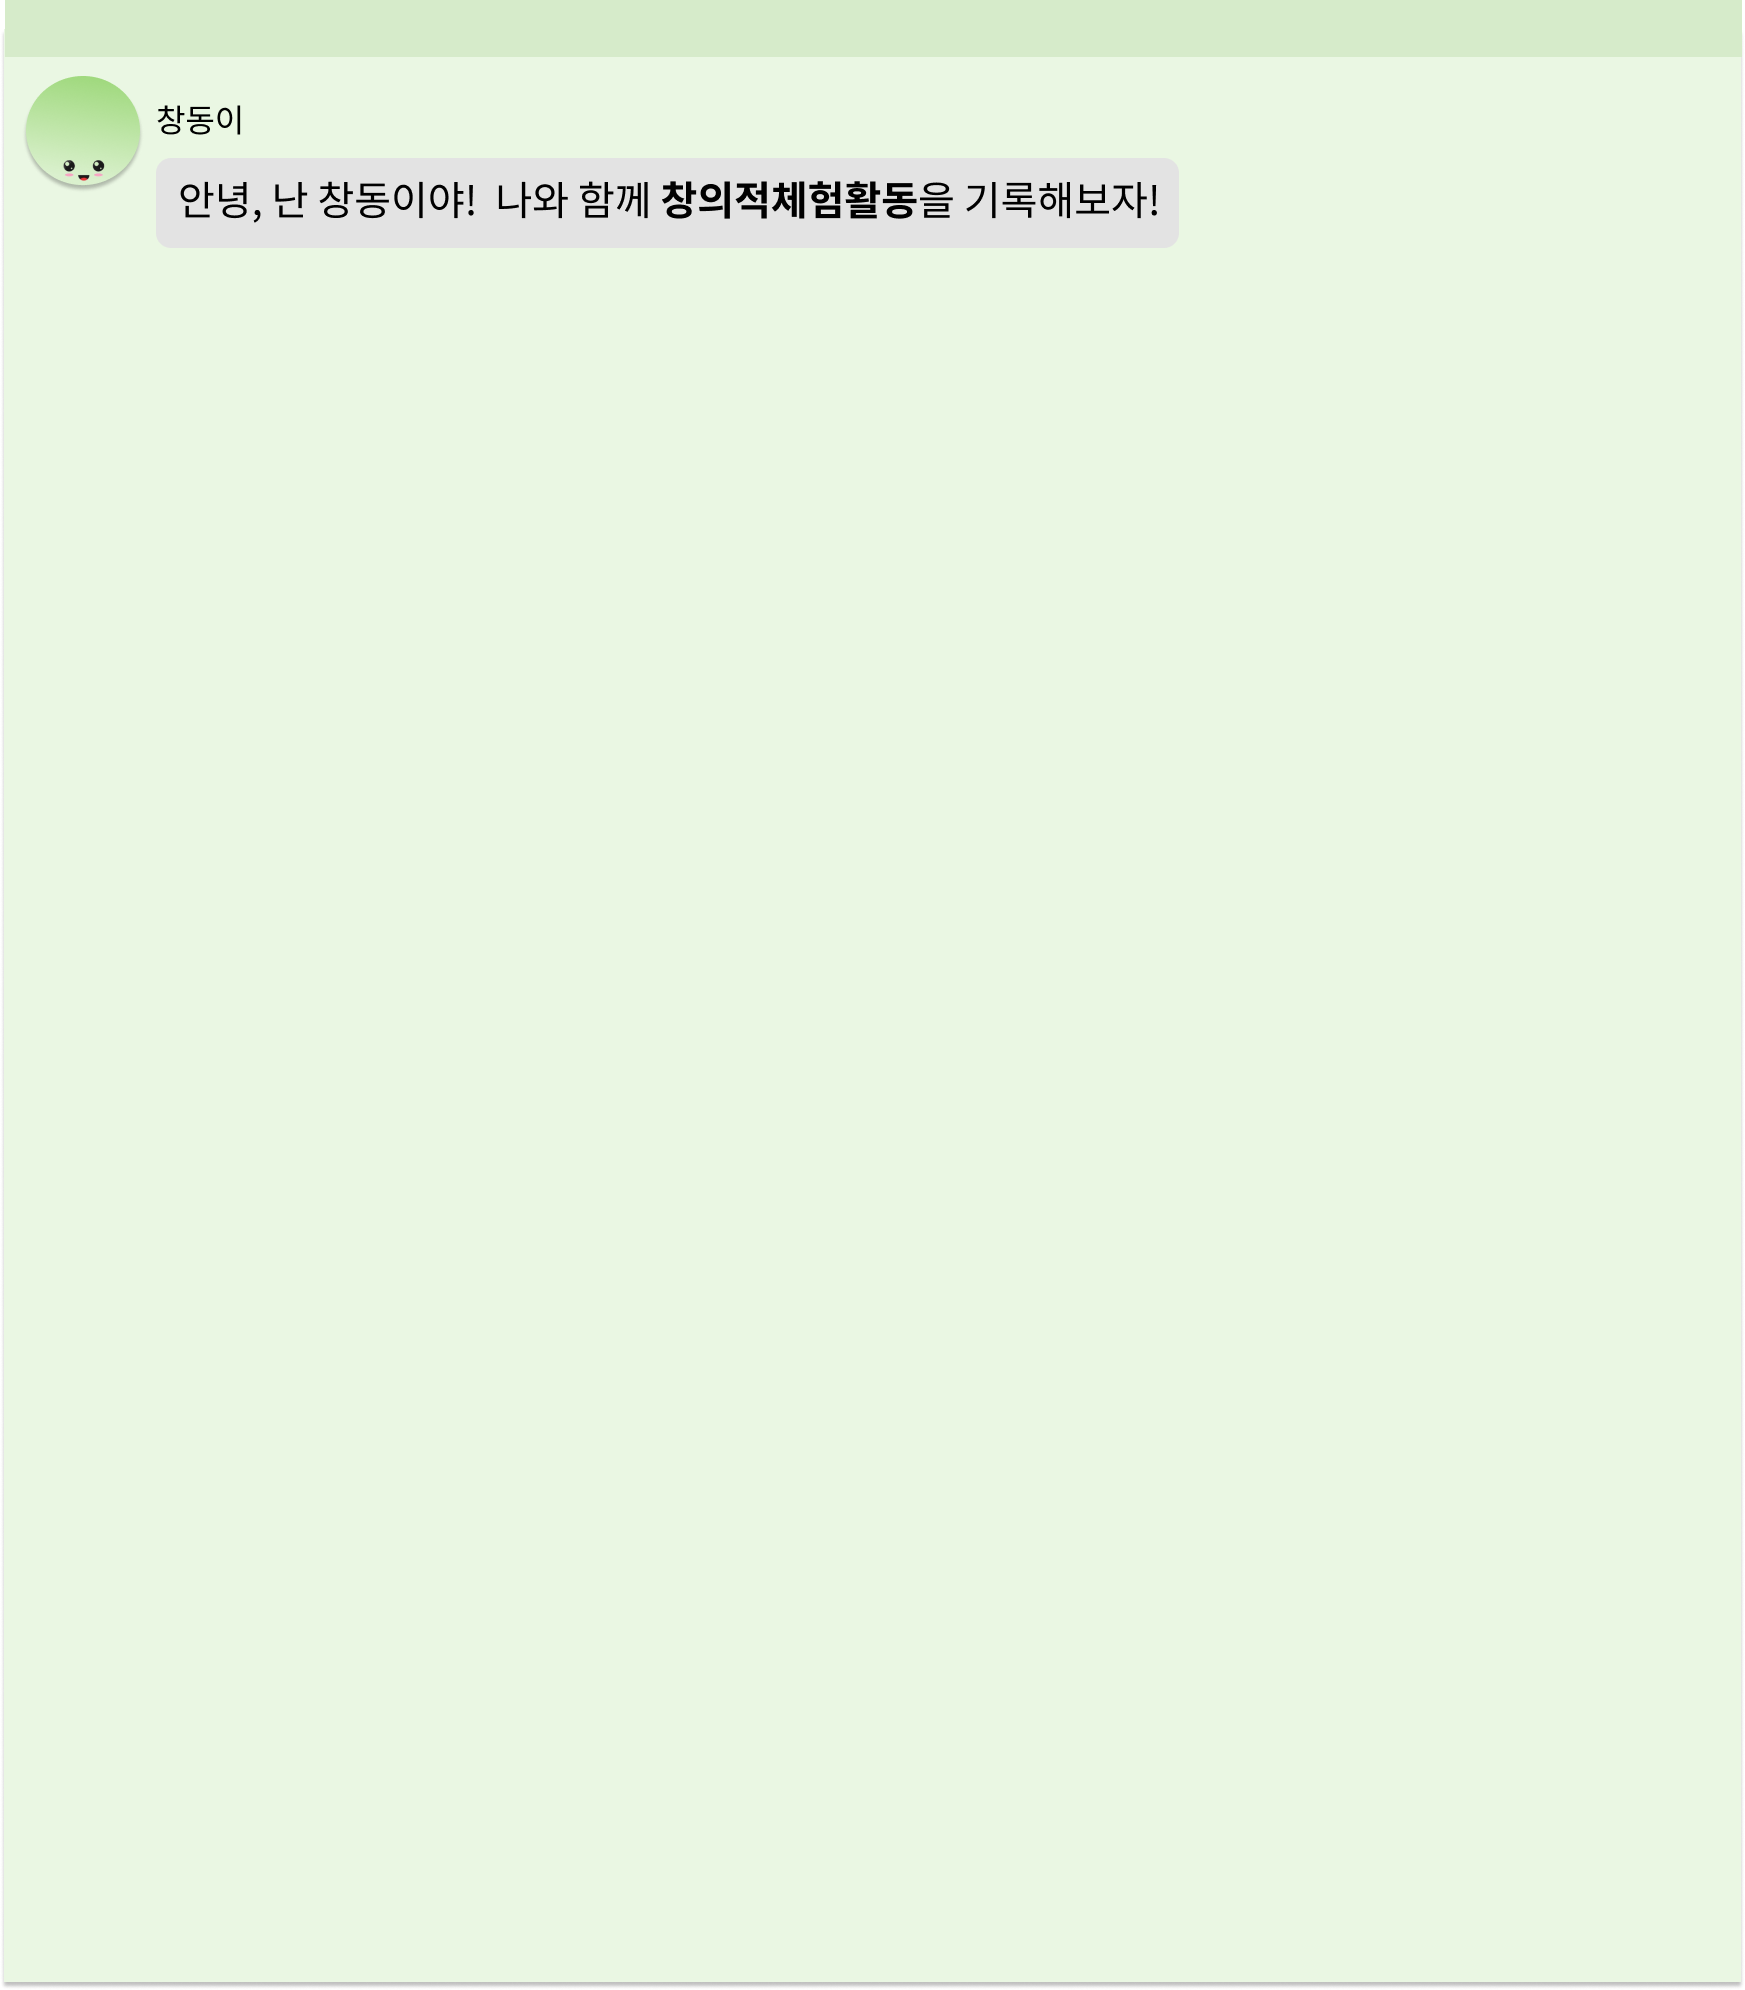
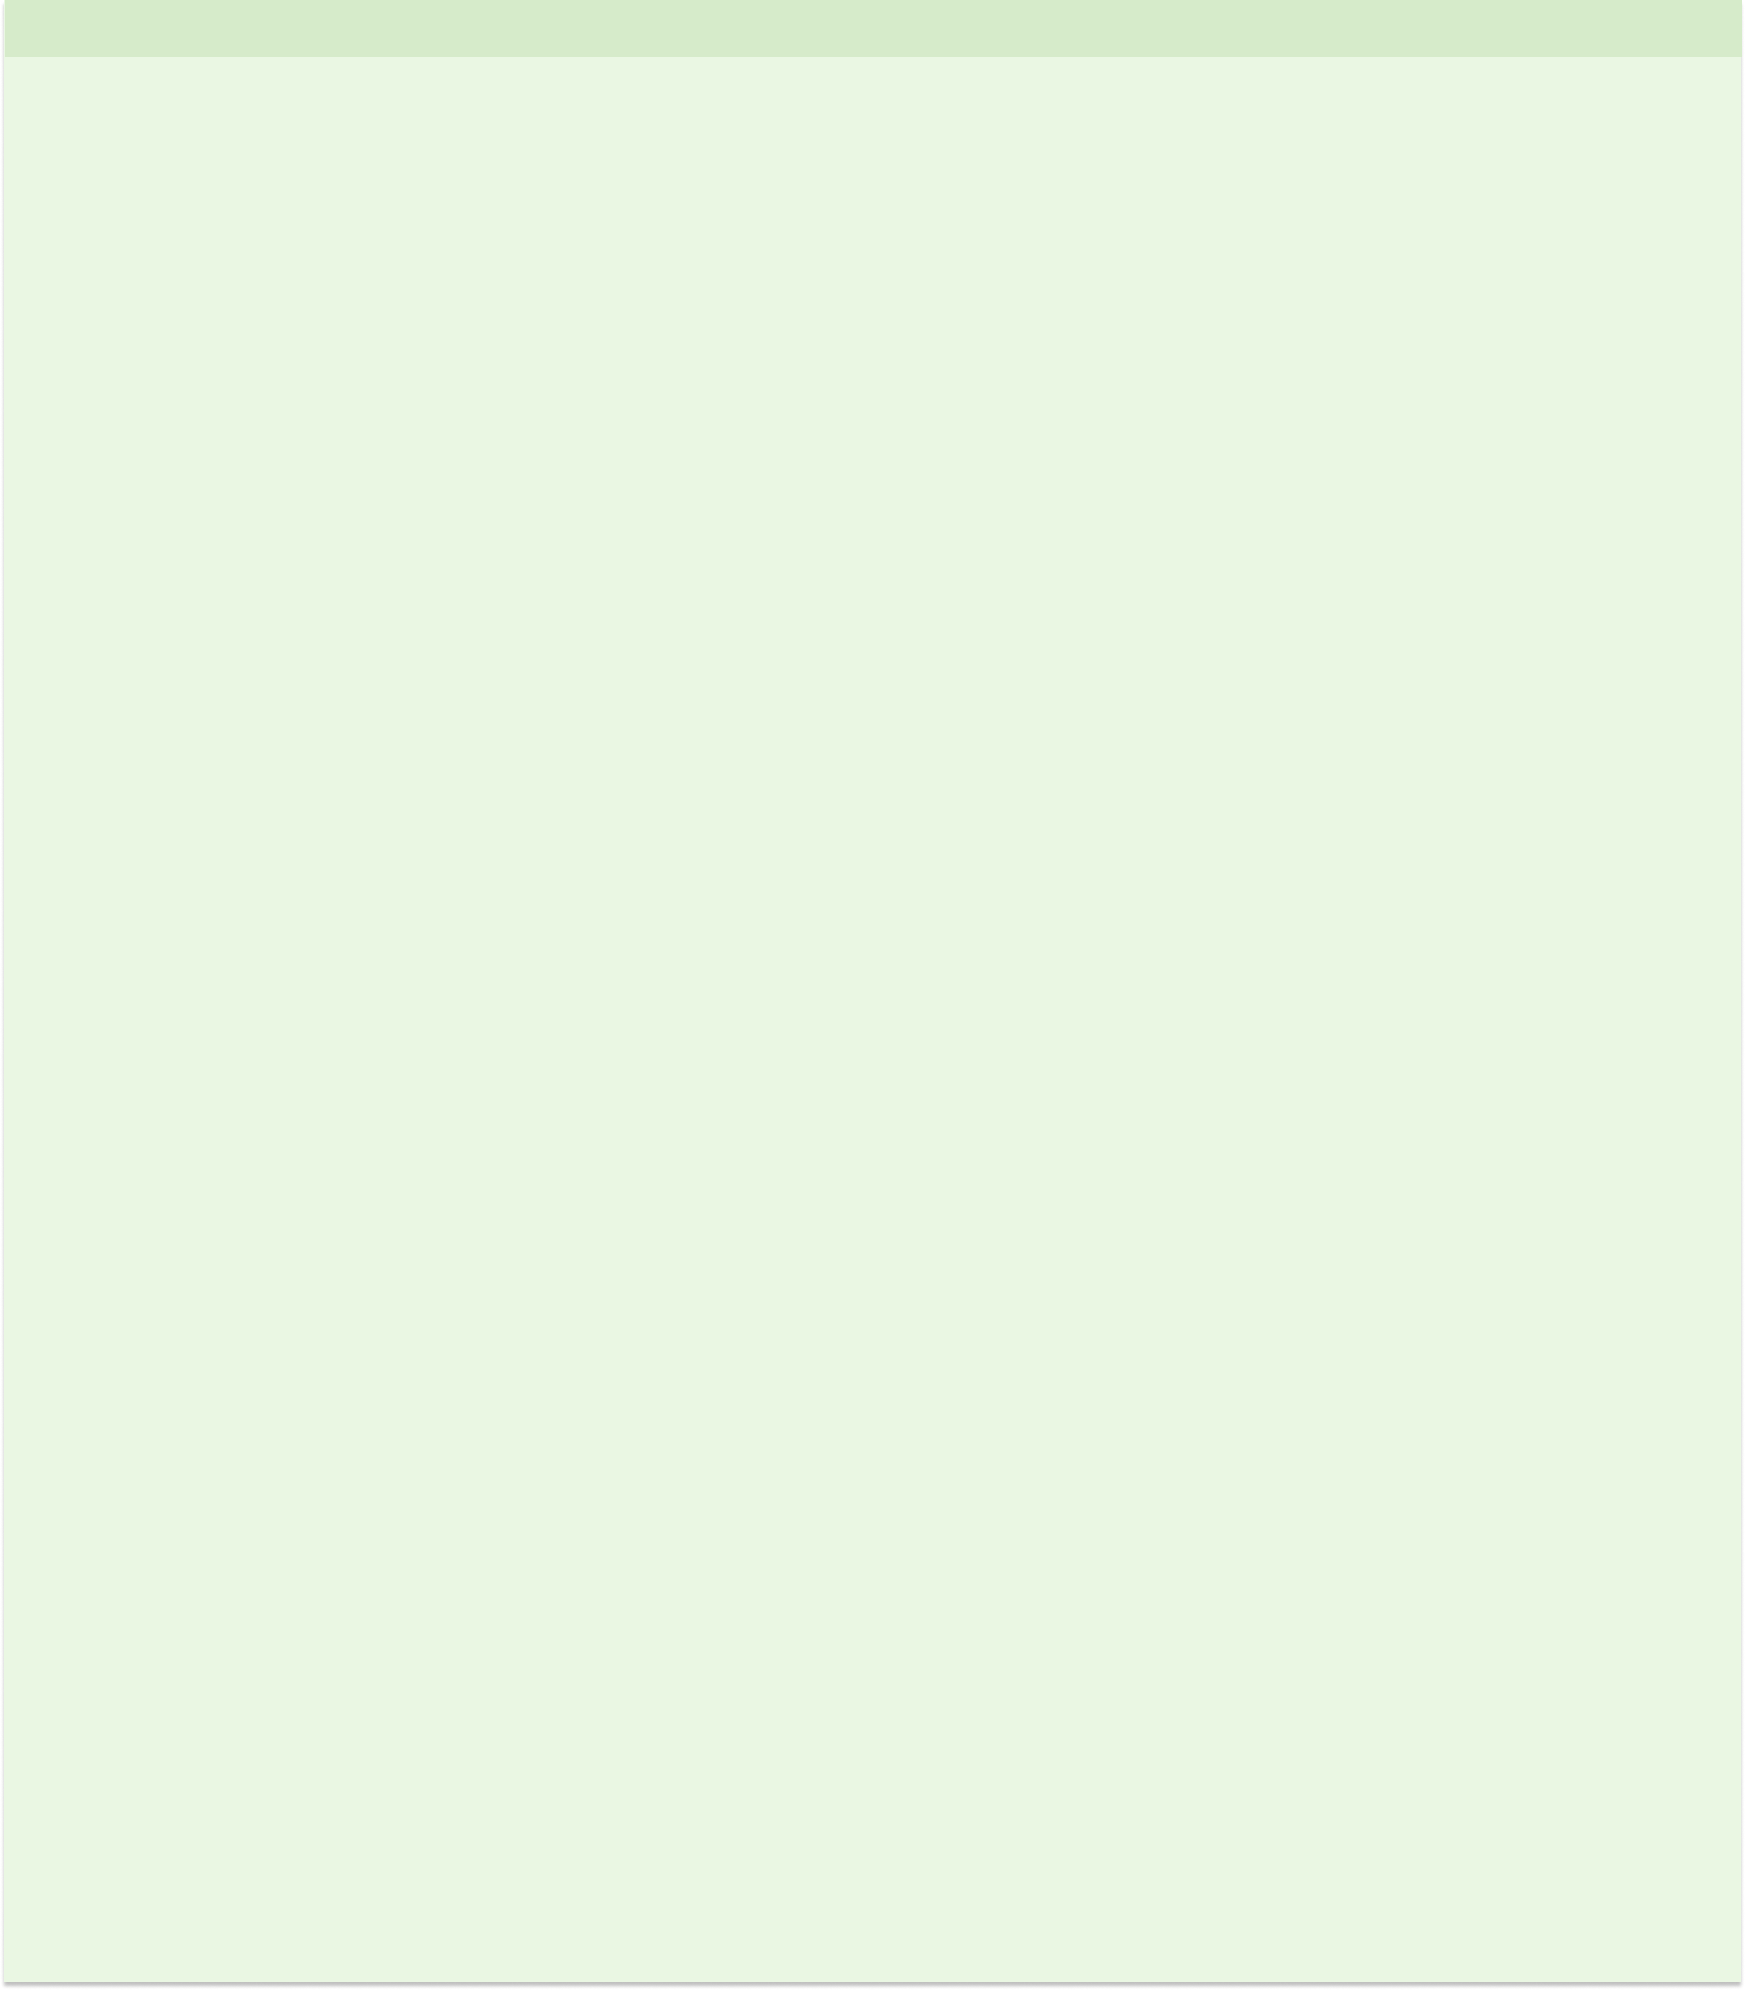
added name form and date form

Changed region(s): [[0.0928, 0.0935, 0.6499, 0.1246], [0.0, 0.0312, 0.1238, 0.0935]]

diff --git a/sgb_web/src/pages/components/GreenForm.jsx b/sgb_web/src/pages/components/GreenForm.jsx
@@ -1,15 +1,94 @@
-import React from 'react';
+import React, { useState } from "react";
 import greenform_bg from './img/greenform_bg.png';
+import green_alert from './img/green_alert.png';
 import './GreenForm.css';
 
 const GreenForm = () => {
+    const [greenName, setGreenName] = useState("");
+    const [greenStartDate, setGreenStartDate] = useState("");
+    const [greenEndDate, setGreenEndDate] = useState("");
+
+    const handleGreenName = (e) => {
+        setGreenName(e.target.value);
+    }
+
+    const handleGreenStartDate = (e) => {
+        setGreenStartDate(e.target.value);
+    }
+
+    const handleGreenEndDate = (e) => {
+        setGreenEndDate(e.target.value);
+    }
+
+    const onClickSubmit = () => {
+        console.log('click submit');
+        console.log('Activity Name: ', greenName);
+        console.log('Activity Start Date: ', greenStartDate);
+        console.log('Activity End Date: ', greenEndDate);
+
+    }   
+
+
     return (
         <div className="greenform">
-            <div className="greenform_content">
-                <p>HELLO</p>
-            </div>
             <div className="greenform_bg">
-                <img src={greenform_bg} alt="greenform_bg" width="869" height="991"/>
+            <img src={greenform_bg} alt="greenform_bg" width="1500" height="991"/>
+                <div className="greenform_content">
+                    <img src={green_alert} alt="green_alert" width="604" height="86"/> 
+                    <br/><br/>
+                    <p className="green_name"><strong>활동 이름</strong>을 적고, 창의적체험활동 유형을 선택해줘!</p>
+                        <input
+                            className = "green_name_input"
+                            type="text"
+                            placeholder=" ex) 풋풋고등학교 자치법정"
+                            value={greenName}
+                            onChange={handleGreenName}
+                        />
+                        <br/><br/>
+                        <input
+                            className = "green_radio"
+                            name= "green_type"
+                            type="radio"
+                            value="self"
+                            onclick='getType(event)'                   
+                        />자율활동
+                        <input
+                            className = "green_radio"
+                            name= "green_type"
+                            type="radio"
+                            value="club"
+                            onclick='getType(event)'                   
+                        />동아리활동
+                        <input
+                            className = "green_radio"
+                            name= "green_type"
+                            type="radio"
+                            value="career"
+                            onclick='getType(event)'                   
+                        />진로활동
+                        <input
+                            className = "green_radio"
+                            name= "green_type"
+                            type="radio"
+                            value="volunteer"
+                            onclick='getType(event)'                   
+                        />봉사활동    
+                        <br/><br/>   
+                    <p className="green_date"><strong>활동 날짜</strong>와 <strong>기간</strong>도 기록하자.</p>
+                        <input
+                            className = "green_date_input"
+                            type="date"
+                            value ={greenStartDate}
+                            onChange={handleGreenStartDate}                        
+                        />&nbsp;~&nbsp;  
+                        <input
+                            className = "green_date_input"
+                            type="date"
+                            value ={greenEndDate}
+                            onChange={handleGreenEndDate}
+                        />
+                        <br/><br/>   
+                </div>
             </div> 
         </div>
     );

diff --git a/sgb_web/src/pages/components/GreenForm.css b/sgb_web/src/pages/components/GreenForm.css
@@ -1,11 +1,47 @@
+.greenform {
+  display: flex;
+  justify-content: center;
+  width: 100%;
+}
+
 .greenform_bg {
     position: relative;
     text-align: center;
-  }
- 
+}
+
+.greenform_alert {
+  position: absolute;
+  left: 3%;
+  bottom: 75%;
+  text-align: left;
+  font-size: 15px;
+  z-index: 999;
+}
+
 .greenform_content {
-    position: relative;
-    left: 150px;
-    top: 200px;
+    position: absolute;
+    left: 2%;
+    bottom: 50%;
+    text-align: left;
     font-size: 20px;
-  }
+    z-index: 999;
+}
+
+.green_name_input {
+  width: 380px;
+  height: 40px;
+  font-size: 20px;
+  border-radius: 5px;
+  border-color: #6CBD3F;
+  background-color: #F6FCEF;
+}
+
+.green_date_input {
+  width: 360px;
+  height: 40px;
+  font-size: 20px;
+  border-radius: 5px;
+  border-color: #6CBD3F;
+  background-color: #F6FCEF;
+}
+
